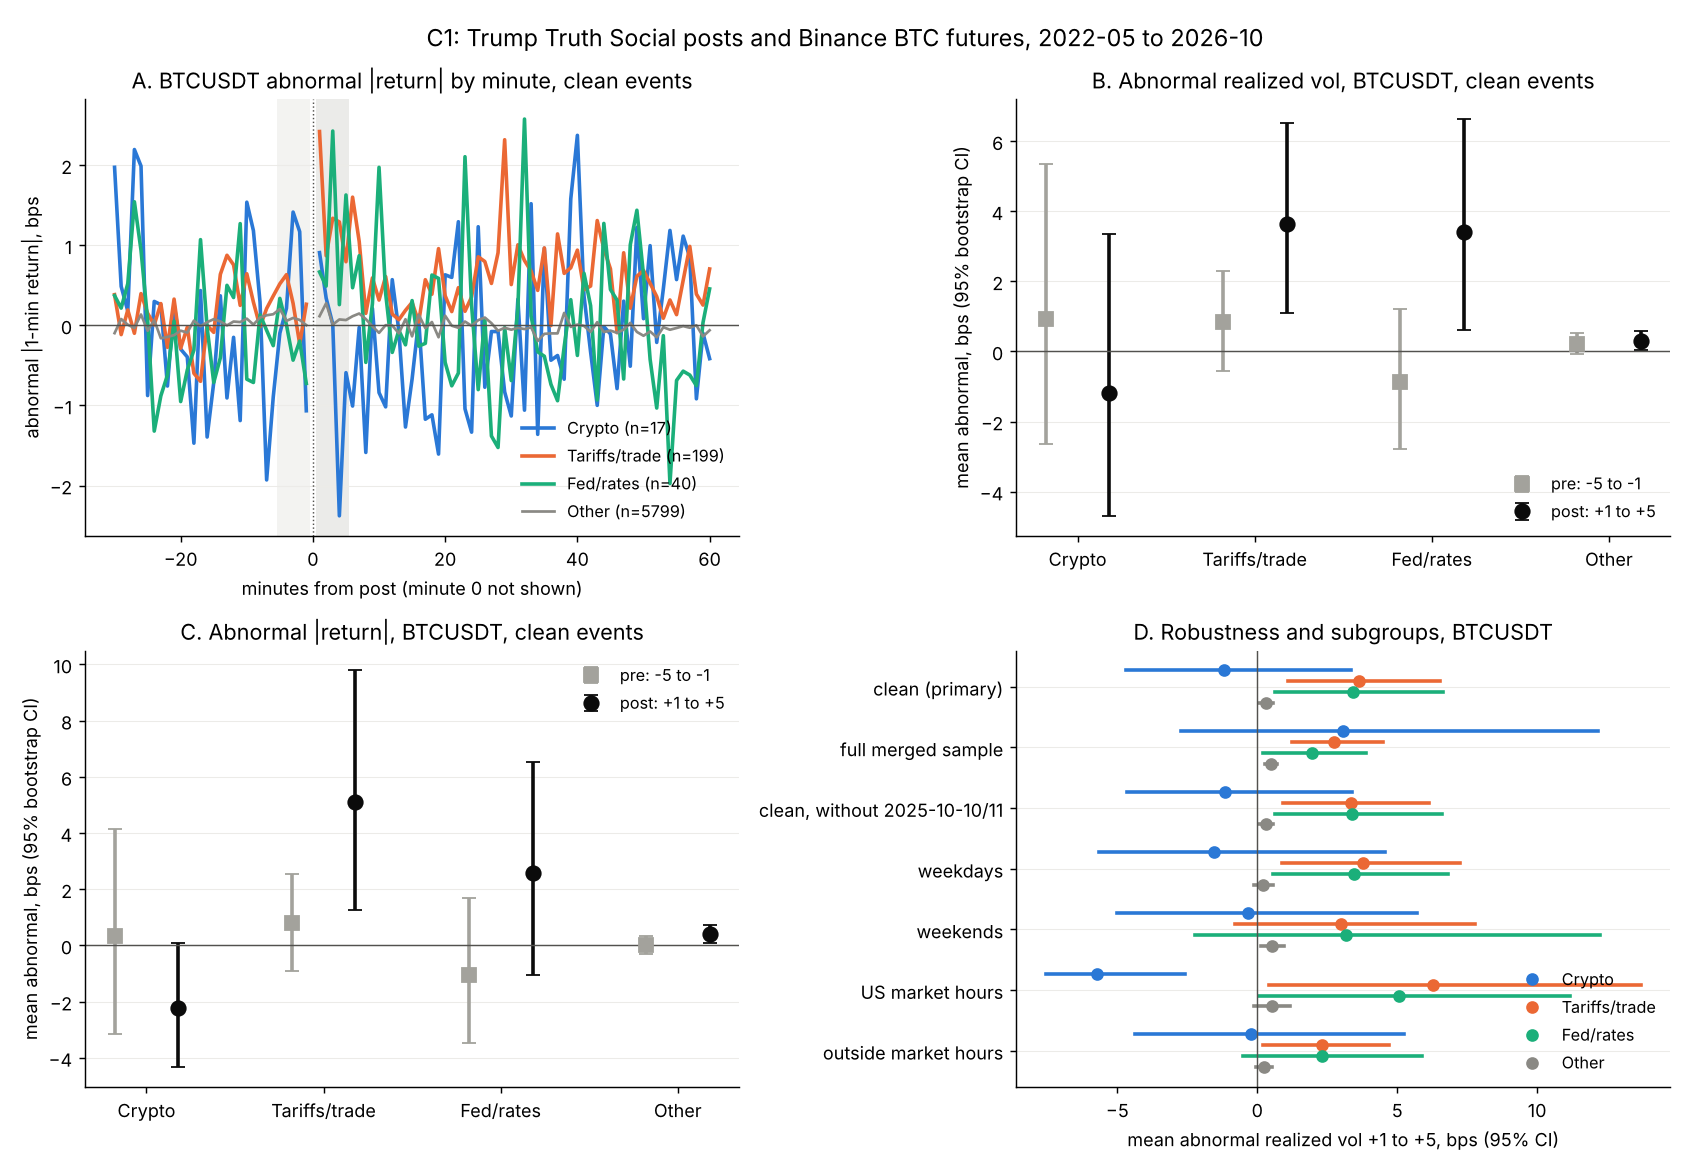
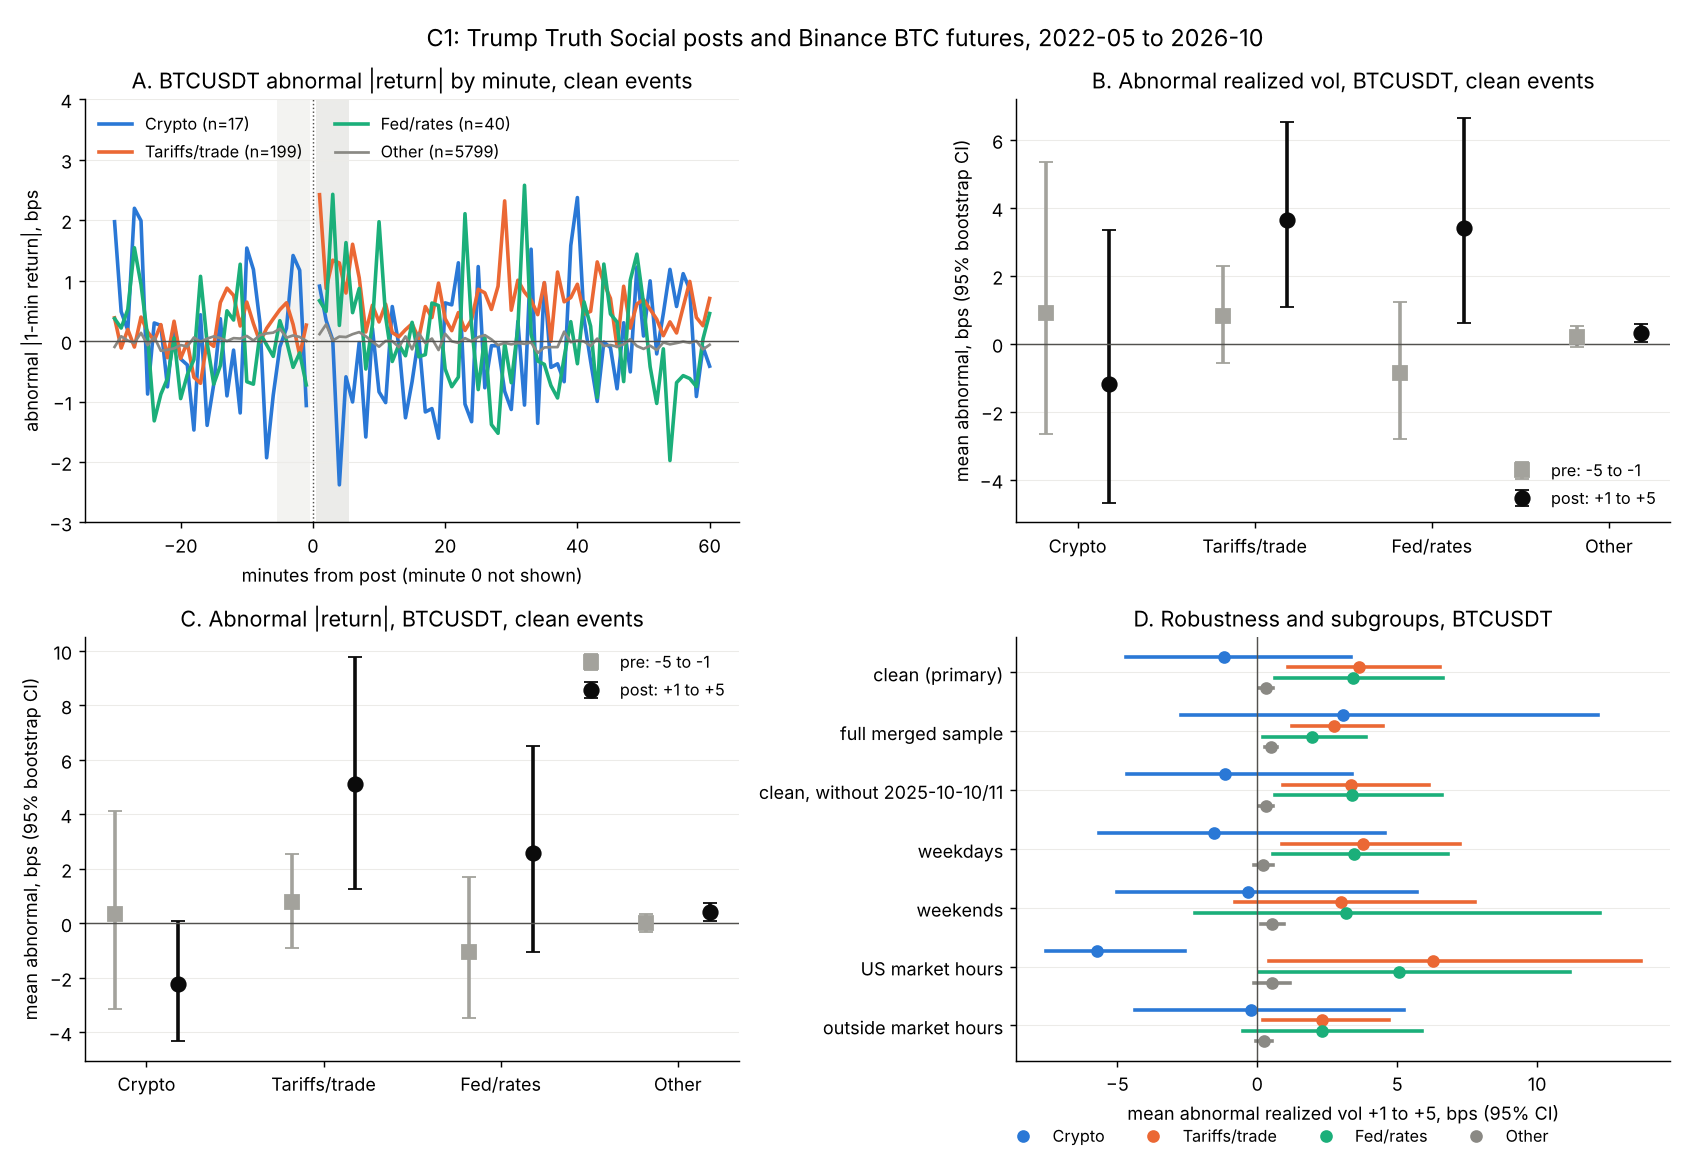
Part C v1: Trump's Truth Social posts and crypto volatility
Pre-registered (sha256 8a3e0a07...), 6,055 clean post events 2022 to 2026
against same-minute-of-week controls. Tariff posts raise BTC realized
volatility over the next 5 minutes by +3.6 bps (+1.1 to +6.5, Holm p
0.002), with no rise beforehand; crypto posts show no detectable average
effect (17 events); typical posts do nothing.

Claude-Session: https://claude.ai/code/session_01XjjBMCwmUvgJS4DjYURLRb

diff --git a/research/politics/c1_trump_posts.py b/research/politics/c1_trump_posts.py
@@ -30,6 +30,11 @@ of posts/README.md. Mapping choices (the archive has no reply, quote or repost f
   archive's scraped_at, truncated the same way.
 - Two posts with empty text and no media (2024-03-05 17:23:39) fail the contract and are
   dropped.
+
+Known mapping error, found after the file was frozen and pre-registered: 1,116 posts of
+the form "RT: <status url><own text>" are quote posts with Trump's own comment, but are
+mapped to repost. The frozen file is kept for v1; `analyze` reports an exploratory
+re-run with them as quotes. Fix in the converter before a v2.
 """
 from __future__ import annotations
 
@@ -279,9 +284,10 @@ def week_offsets(max_weeks: int = MAX_WEEKS) -> np.ndarray:
     return np.array([s * j for j in range(1, max_weeks + 1) for s in (-1, 1)]) * WEEK
 
 
-def pick_controls(anchors: np.ndarray, eligible: np.ndarray, k: int = N_CTRL) -> np.ndarray:
+def pick_controls(anchors: np.ndarray, eligible: np.ndarray, k: int = N_CTRL,
+                  max_weeks: int = MAX_WEEKS) -> np.ndarray:
     """(n, k) control minutes: the first k eligible of m-1w, m+1w, m-2w, ...; -1 if short."""
-    cand = anchors[:, None] + week_offsets()[None, :]
+    cand = anchors[:, None] + week_offsets(max_weeks)[None, :]
     inside = (cand >= 0) & (cand < eligible.size)
     ok = np.zeros_like(inside)
     ok[inside] = eligible[cand[inside]]
@@ -626,6 +632,38 @@ def stacked_check(arr: dict, anchors: np.ndarray, ctrl: np.ndarray) -> dict:
             "p": float(f["p"]), "G": int(f["G"])}
 
 
+_RT_URL = re.compile(r"RT: https://truthsocial\.com/\S*?/statuses/\d+")
+
+
+def reclassify_rt_comments(posts: list[dict]) -> list[dict]:
+    """Exploratory: posts "RT: <status url><own text>" become quotes (found after step 1
+    was frozen; the pre-registered file keeps them as reposts)."""
+    out = []
+    for p in posts:
+        q = dict(p)
+        if p["kind"] == "repost" and p["text"].startswith("RT:"):
+            m = _RT_URL.match(p["text"])
+            if m and p["text"][m.end():].strip():
+                q["kind"] = "quote"
+        out.append(q)
+    return out
+
+
+def exploratory_reclass(posts: list[dict], post_min: np.ndarray, pool_min: np.ndarray) -> dict:
+    rp = reclassify_rt_comments(posts)
+    events = [e for e in build_events(rp) if PRE_SPAN <= e["minute"] < N_MIN - POST_SPAN]
+    topics = np.array([e["topic"] for e in events])
+    clean = np.array([e["clean"] for e in events])
+    run = compute_symbol("BTCUSDT", events, post_min, pool_min, False)
+    out = {"n_reclassified": sum(a["kind"] != b["kind"] for a, b in zip(posts, rp, strict=True))}
+    for w in ("post5", "pre5"):
+        for k in ("absret", "rv"):
+            pool = run["pool"][w][k]
+            out[(w, k)] = {t: stats_block(run["ab"][w][k][clean & (topics == t) & run["ok"]],
+                                          pool) for t in TOPICS}
+    return out
+
+
 def analyze() -> dict:
     if _sha(PREREG) != PREREG_SHA:
         raise SystemExit("PREREGISTRATION.md changed since it was hashed; refusing to run")
@@ -745,6 +783,8 @@ def analyze() -> dict:
         x = btc["ab"]["post5"]["rv"][m]
         expl[t] = float(np.mean(x > q95))
     res["exploratory_top5"] = expl
+    # exploratory: "RT: <status url>" followed by own text is read as a quote, not a repost
+    res["reclass"] = exploratory_reclass(posts, post_min, pool_min)
     # profile
     res["profile"] = {}
     for t in TOPICS:
@@ -769,11 +809,19 @@ def analyze() -> dict:
         for sym in SYMBOLS:
             r = runs[(sym, False)]
             c = pick_controls(m, r["elig"])
+            row[f"fallback_{sym}"] = bool((c < 0).any())
+            if row[f"fallback_{sym}"]:  # illustration-only: widen to +/-52 weeks, k >= 4
+                c = pick_controls(m, r["elig"], max_weeks=52)
+                c = c[:, c[0] >= 0]
+            if c.shape[1] < 4:
+                row[sym] = {w: {k: np.nan for k in ("absret", "rv", "ret")} for w in WINDOWS}
+                continue
             ab = abnormal(r["arr"], m, c)
             row[sym] = {w: {k: float(ab[w][k][0]) for k in ("absret", "rv", "ret")}
                         for w in ab}
         prv = btc["pool"]["post5"]["rv"]
-        row["pctl"] = float(np.mean(prv[np.isfinite(prv)] <= row["BTCUSDT"]["post5"]["rv"]))
+        v = row["BTCUSDT"]["post5"]["rv"]
+        row["pctl"] = float(np.mean(prv[np.isfinite(prv)] <= v)) if np.isfinite(v) else np.nan
         named.append(row)
     res["named"] = named
     # counts and coverage
@@ -826,7 +874,8 @@ def plot(res: dict, path: Path) -> None:
     ax.set_xlabel("minutes from post (minute 0 not shown)")
     ax.set_ylabel("abnormal |1-min return|, bps")
     ax.set_title("A. BTCUSDT abnormal |return| by minute, clean events")
-    ax.legend(frameon=False, fontsize=9)
+    ax.set_ylim(-3, 4)
+    ax.legend(frameon=False, fontsize=9, ncol=2, loc="upper left")
 
     for ax, k, title in ((axes[0, 1], "rv", "B. Abnormal realized vol, BTCUSDT"),
                          (axes[1, 0], "absret", "C. Abnormal |return|, BTCUSDT")):
@@ -861,7 +910,8 @@ def plot(res: dict, path: Path) -> None:
     ax.invert_yaxis()
     ax.set_xlabel("mean abnormal realized vol +1 to +5, bps (95% CI)")
     ax.set_title("D. Robustness and subgroups, BTCUSDT")
-    ax.legend(frameon=False, fontsize=9, loc="lower right")
+    ax.legend(frameon=False, fontsize=9, ncol=4, loc="upper center",
+              bbox_to_anchor=(0.4, -0.12))
     for a in axes.ravel():
         a.spines[["top", "right"]].set_visible(False)
         a.grid(axis="y", color="#ecebe8", lw=0.6)
@@ -980,11 +1030,28 @@ def report(res: dict, conclusion: str) -> str:
           "95th percentile of the placebo pool (5% expected under no effect): "
           + ", ".join(f"{LABEL[t]} {100 * v:.1f}%" for t, v in res["exploratory_top5"].items())
           + ".", ""]
+    rc = res["reclass"]
+    L += ["### Exploratory: quote posts misread as reposts", "",
+          (f"After the post file was frozen, the analysis showed that {rc['n_reclassified']:,} "
+           "posts of the form \"RT: <truthsocial status url><own text>\" are quote posts with "
+           "Trump's own comment (for example the 2025-03-02 17:11 'And, obviously, BTC and "
+           "ETH...' post), not plain reposts. The pre-registered results above keep them as "
+           "reposts (not events). Re-running the primary and pre-window statistics with them "
+           "as quotes (BTCUSDT, clean events, mean [95% CI] (placebo p, n)):"), "",
+          "| window | outcome | " + " | ".join(LABEL[t] for t in TOPICS) + " |",
+          "|---|---|" + "---|" * len(TOPICS)]
+    for (w, k), blk in ((key, v) for key, v in rc.items() if isinstance(key, tuple)):
+        cells = [f"{_f(blk[t]['mean'])} [{_f(blk[t]['lo'])}, {_f(blk[t]['hi'])}] "
+                 f"(p {_p(blk[t]['p'])}, n {blk[t]['n']})" for t in TOPICS]
+        L.append(f"| {w} | {k} | " + " | ".join(cells) + " |")
+    L += [""]
     L += ["## Key named events: illustrations, not tests", "",
           ("Chosen because they are famous, which selects on the outcome. BTCUSDT abnormal "
           "values in bps; pctl = percentile of the +1 to +5 abnormal realized volatility "
           "within the placebo pool. Status says whether the post is a clean event in the "
-          "tested sample."), "",
+          "tested sample. * = fewer than 16 eligible controls within 26 weeks (busy "
+          "posting hours), so up to 16 from within 52 weeks are used, illustration only; "
+          "n/a = fewer than 4."), "",
           ("| event | UTC | kind / topic | status | BTC pre rv | BTC +1..+5 rv | pctl | "
           "BTC +1..+5 ret | BTC +1..+60 ret | SOL +1..+60 ret |"),
           "|---|---|---|---|---|---|---|---|---|---|"]
@@ -993,16 +1060,26 @@ def report(res: dict, conclusion: str) -> str:
             L.append(f"| {r['label']} | {r['ts']} | not found | | | | | | | |")
             continue
         b, s = r["BTCUSDT"], r["SOLUSDT"]
+        pct = _f(100 * r["pctl"], 0)
+        star = "*" if r["fallback_BTCUSDT"] else ""
         L.append(f"| {r['label']} | {r['ts'][:16].replace('T', ' ')} | {r['kind']} / "
                  f"{r['topic']} | {r['status']} | {_f(b['pre5']['rv'], 1)} | "
-                 f"{_f(b['post5']['rv'], 1)} | {100 * r['pctl']:.0f} | "
+                 f"{_f(b['post5']['rv'], 1)}{star} | {pct} | "
                  f"{_f(b['post5']['ret'], 1)} | {_f(b['post60']['ret'], 1)} | "
                  f"{_f(s['post60']['ret'], 1)} |")
     L += ["", "## Caveats", "",
           ("- Topic keywords are crude: content in images, videos and links is invisible, "
           "and 'powell' or 'reciprocal' can be off-topic. Media-only posts are 'other'."),
           ("- The archive probably lacks posts deleted before 2026-08-20, and kinds are "
-          "inferred from text; there is no reply flag."),
+          "inferred from text; there is no reply flag. 1,116 quote posts were misread as "
+          "reposts in the frozen file (see the exploratory section)."),
+          ("- The pre-registered keywords miss some crypto posts: 'CONGRATULATIONS "
+          "BITCOINERS!!! $100,000!!!' is 'other' because `bitcoins?` does not match "
+          "'bitcoiners'. Left as registered; a v2 list should use `bitcoin\\w*`."),
+          ("- About 17% of clean events (1,276) lack 16 eligible control weeks (or a complete "
+          "window) "
+          "within 26 weeks, because Trump posts at the same hours week after week; they are "
+          "dropped, so the busiest posting hours are under-represented."),
           ("- Times are when Truth Social stored the post; markets learn of it seconds to "
           "minutes later through alert accounts and wires, which is why minute 0 is "
           "skipped and +15 and +60 are reported."),
@@ -1045,7 +1122,35 @@ def main(argv: list[str]) -> int:
     return 0
 
 
-CONCLUSION = "(to be written after the first run)"
+CONCLUSION = """\
+**Yes, but only some posts, by a little, and mainly through tariffs.** Over 6,055 clean
+post events (2022-05 to 2026-10), BTC futures were more volatile than usual in the five
+minutes after a Trump post about tariffs and trade: abnormal realized volatility +3.6 bps
+[95% CI 1.1, 6.5] on a normal level of about 12.6 bps (roughly +29%), abnormal absolute
+return +5.1 bps [1.3, 9.8] (about +49%), volume about +23%, placebo p 0.0002 (Holm
+0.002), and clearly larger than for other posts (difference +3.3 bps rv [0.8, 6.3],
+permutation p 0.0001). ETH and SOL show the same pattern. The effect is a small average
+with a long tail: 13% of tariff posts land in the top 5% of the placebo distribution,
+led by the 2025-04-09 tariff pause and the 2025-10-10 100% China tariff, and it holds
+without 2025-10-10.
+
+Fed and rates posts point the same way (+3.4 bps rv [0.6, 6.6]) but do not survive the
+multiple-testing correction (placebo p 0.044, Holm 0.18). Crypto posts, the topic one
+would expect to matter most, show no average effect (-1.2 bps rv [-4.7, 3.4], n = 17
+clean events): too few posts, several famous ones fall inside posting bursts and are
+not in the clean sample, and the big ones (the 2025-03-02 reserve post) are rare
+exceptions. All other posts, 96% of events, move BTC by about +0.3 bps (2.5%), which
+is statistically detectable only because there are thousands of them and is matched by
+a similar rise just before the posts, so it is not evidence of influence.
+
+The pre-window check is reassuring for the topics that matter: in minutes -5 to -1
+before tariff and Fed posts, BTC was no more volatile than usual (tariffs +0.8 bps rv
+[-0.6, 2.3]), and the post-minus-pre difference is positive (tariffs +2.8 [0.6, 5.4]).
+So, on average, tariff posts are not just commentary on a move already under way.
+
+In plain terms: a typical Trump post does nothing to crypto; a tariff post adds a few
+basis points of extra movement in the next five minutes, and occasionally a great deal;
+crypto-specific posts have no detectable average effect at this sample size."""
 
 if __name__ == "__main__":
     sys.exit(main(sys.argv[1:]))

diff --git a/research/politics/data/c1_trump_posts.md b/research/politics/data/c1_trump_posts.md
@@ -8,7 +8,34 @@ Generated by `research/politics/c1_trump_posts.py analyze`. Design fixed in
 
 ## Plain-language conclusion
 
-(to be written after the first run)
+**Yes, but only some posts, by a little, and mainly through tariffs.** Over 6,055 clean
+post events (2022-05 to 2026-10), BTC futures were more volatile than usual in the five
+minutes after a Trump post about tariffs and trade: abnormal realized volatility +3.6 bps
+[95% CI 1.1, 6.5] on a normal level of about 12.6 bps (roughly +29%), abnormal absolute
+return +5.1 bps [1.3, 9.8] (about +49%), volume about +23%, placebo p 0.0002 (Holm
+0.002), and clearly larger than for other posts (difference +3.3 bps rv [0.8, 6.3],
+permutation p 0.0001). ETH and SOL show the same pattern. The effect is a small average
+with a long tail: 13% of tariff posts land in the top 5% of the placebo distribution,
+led by the 2025-04-09 tariff pause and the 2025-10-10 100% China tariff, and it holds
+without 2025-10-10.
+
+Fed and rates posts point the same way (+3.4 bps rv [0.6, 6.6]) but do not survive the
+multiple-testing correction (placebo p 0.044, Holm 0.18). Crypto posts, the topic one
+would expect to matter most, show no average effect (-1.2 bps rv [-4.7, 3.4], n = 17
+clean events): too few posts, several famous ones fall inside posting bursts and are
+not in the clean sample, and the big ones (the 2025-03-02 reserve post) are rare
+exceptions. All other posts, 96% of events, move BTC by about +0.3 bps (2.5%), which
+is statistically detectable only because there are thousands of them and is matched by
+a similar rise just before the posts, so it is not evidence of influence.
+
+The pre-window check is reassuring for the topics that matter: in minutes -5 to -1
+before tariff and Fed posts, BTC was no more volatile than usual (tariffs +0.8 bps rv
+[-0.6, 2.3]), and the post-minus-pre difference is positive (tariffs +2.8 [0.6, 5.4]).
+So, on average, tariff posts are not just commentary on a move already under way.
+
+In plain terms: a typical Trump post does nothing to crypto; a tariff post adds a few
+basis points of extra movement in the next five minutes, and occasionally a great deal;
+crypto-specific posts have no detectable average effect at this sample size.
 
 ## Coverage
 
@@ -167,16 +194,27 @@ Clean events, mean abnormal [95% CI] (placebo p). Units: bps for absret, rv and 
 
 Share of clean events whose abnormal realized volatility (+1 to +5) is above the 95th percentile of the placebo pool (5% expected under no effect): Crypto 5.9%, Tariffs/trade 13.1%, Fed/rates 7.5%, Other 6.7%.
 
+### Exploratory: quote posts misread as reposts
+
+After the post file was frozen, the analysis showed that 1,116 posts of the form "RT: <truthsocial status url><own text>" are quote posts with Trump's own comment (for example the 2025-03-02 17:11 'And, obviously, BTC and ETH...' post), not plain reposts. The pre-registered results above keep them as reposts (not events). Re-running the primary and pre-window statistics with them as quotes (BTCUSDT, clean events, mean [95% CI] (placebo p, n)):
+
+| window | outcome | Crypto | Tariffs/trade | Fed/rates | Other |
+|---|---|---|---|---|---|
+| post5 | absret | -0.15 [-3.83, 4.97] (p 0.897, n 18) | 5.10 [1.32, 9.84] (p 0.0002, n 198) | 2.59 [-1.07, 6.52] (p 0.141, n 40) | 0.41 [0.09, 0.74] (p 0.0002, n 5891) |
+| post5 | rv | 0.60 [-4.06, 6.38] (p 0.635, n 18) | 3.59 [1.01, 6.49] (p 0.0004, n 198) | 3.41 [0.62, 6.63] (p 0.044, n 40) | 0.31 [0.06, 0.56] (p 0.0002, n 5891) |
+| pre5 | absret | 2.50 [-2.35, 8.31] (p 0.282, n 18) | 0.77 [-0.89, 2.61] (p 0.300, n 198) | -1.04 [-3.45, 1.69] (p 0.645, n 40) | 0.10 [-0.21, 0.43] (p 0.145, n 5891) |
+| pre5 | rv | 3.07 [-1.95, 9.15] (p 0.175, n 18) | 0.82 [-0.55, 2.33] (p 0.243, n 198) | -0.86 [-2.80, 1.22] (p 0.620, n 40) | 0.22 [-0.07, 0.53] (p 0.035, n 5891) |
+
 ## Key named events: illustrations, not tests
 
-Chosen because they are famous, which selects on the outcome. BTCUSDT abnormal values in bps; pctl = percentile of the +1 to +5 abnormal realized volatility within the placebo pool. Status says whether the post is a clean event in the tested sample.
+Chosen because they are famous, which selects on the outcome. BTCUSDT abnormal values in bps; pctl = percentile of the +1 to +5 abnormal realized volatility within the placebo pool. Status says whether the post is a clean event in the tested sample. * = fewer than 16 eligible controls within 26 weeks (busy posting hours), so up to 16 from within 52 weeks are used, illustration only; n/a = fewer than 4.
 
 | event | UTC | kind / topic | status | BTC pre rv | BTC +1..+5 rv | pctl | BTC +1..+5 ret | BTC +1..+60 ret | SOL +1..+60 ret |
 |---|---|---|---|---|---|---|---|---|---|
-| Open minded to crypto companies | 2024-05-25 19:13 | original / crypto | clean event | n/a | n/a | 0 | n/a | n/a | n/a |
-| Thank you, Bitcoin 2024 | 2024-07-27 21:20 | original / crypto | clean event | n/a | n/a | 0 | n/a | n/a | n/a |
+| Open minded to crypto companies | 2024-05-25 19:13 | original / crypto | clean event | -2.0 | -2.4* | 44 | -1.6 | 13.3 | 10.3 |
+| Thank you, Bitcoin 2024 | 2024-07-27 21:20 | original / crypto | clean event | 30.4 | 78.9* | 100 | 79.9 | 69.0 | 90.6 |
 | World Liberty Financial promoted | 2024-09-30 15:11 | original / crypto | event, not clean | -8.4 | -9.6 | 6 | 29.9 | -26.9 | -116.2 |
-| Atkins nominated to SEC | 2024-12-04 17:47 | original / crypto | event, not clean | n/a | n/a | 0 | n/a | n/a | n/a |
+| Atkins nominated to SEC | 2024-12-04 17:47 | original / crypto | event, not clean | 3.4 | 11.0* | 93 | 43.6 | 135.5 | 156.4 |
 | Congratulations Bitcoiners $100,000 | 2024-12-05 12:55 | original / other | clean event | 5.5 | 4.1 | 81 | -15.6 | -10.0 | -67.1 |
 | Sacks named crypto czar | 2024-12-06 00:50 | original / crypto | event, not clean | 4.5 | 4.7 | 83 | 36.7 | 143.9 | 317.3 |
 | $TRUMP memecoin launch | 2025-01-18 02:00 | original / crypto | event, not clean | -5.0 | -4.5 | 28 | 9.7 | -4.0 | 131.3 |
@@ -192,12 +230,14 @@ Chosen because they are famous, which selects on the outcome. BTCUSDT abnormal v
 | 100% tariff on China | 2025-10-10 20:50 | original / tariffs | clean event | -3.2 | 80.8 | 100 | -136.7 | -338.2 | -754.3 |
 | Banks and the GENIUS Act | 2026-03-03 22:02 | original / crypto | clean event | -2.3 | 28.6 | 99 | 19.6 | 22.3 | 103.7 |
 | Gensler and the Anti-Crypto Army | 2026-05-27 22:42 | original / crypto | clean event | -8.6 | 0.1 | 63 | -11.4 | -30.2 | -44.0 |
-| Pass the CLARITY Act | 2026-07-13 14:26 | original / crypto | event, not clean | n/a | n/a | 0 | n/a | n/a | n/a |
+| Pass the CLARITY Act | 2026-07-13 14:26 | original / crypto | event, not clean | 2.2 | -17.9* | 0 | 10.5 | 12.6 | -9.1 |
 
 ## Caveats
 
 - Topic keywords are crude: content in images, videos and links is invisible, and 'powell' or 'reciprocal' can be off-topic. Media-only posts are 'other'.
-- The archive probably lacks posts deleted before 2026-08-20, and kinds are inferred from text; there is no reply flag.
+- The archive probably lacks posts deleted before 2026-08-20, and kinds are inferred from text; there is no reply flag. 1,116 quote posts were misread as reposts in the frozen file (see the exploratory section).
+- The pre-registered keywords miss some crypto posts: 'CONGRATULATIONS BITCOINERS!!! $100,000!!!' is 'other' because `bitcoins?` does not match 'bitcoiners'. Left as registered; a v2 list should use `bitcoin\w*`.
+- About 17% of clean events (1,276) lack 16 eligible control weeks (or a complete window) within 26 weeks, because Trump posts at the same hours week after week; they are dropped, so the busiest posting hours are under-represented.
 - Times are when Truth Social stored the post; markets learn of it seconds to minutes later through alert accounts and wires, which is why minute 0 is skipped and +15 and +60 are reported.
 - Clean events exclude posting bursts, so the sample under-represents the busiest moments; the full merged sample is shown as a check.
 - Futures only (no spot cross-check), no equity-market factor, and no exclusion of scheduled macro releases (FOMC, CPI), which can coincide with Fed posts.
